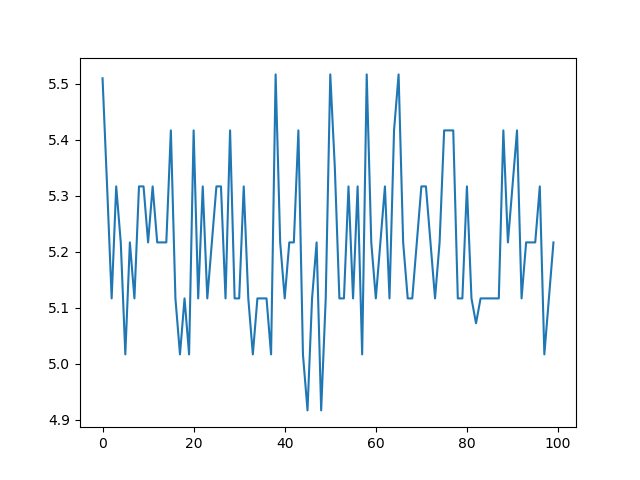
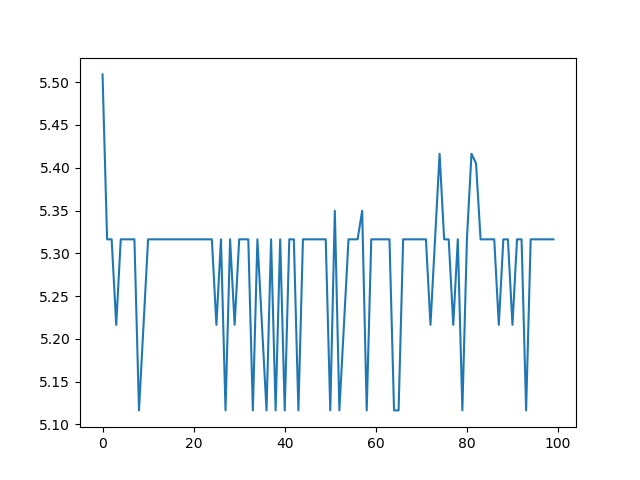
Modify architecture to study a single user characteristics

diff --git a/trainModel.py b/trainModel.py
@@ -5,6 +5,8 @@ import os
 import sys
 from collections import deque
 import model
+
+#Specify which user is writing
 user=sys.argv[1]
 
 #image parameters
@@ -36,6 +38,15 @@ def make_test_data():
 	labels=save["labels"]
 	return images,labels
 
+def load_user_batch(user):
+    user_pickle_file="Pickles/Pkl/usr_"+user+".pkl"
+    user_pickle_file=open(user_pickle_file,"rb")
+    save=pickle.load(user_pickle_file)
+    images=save["images"].reshape([-1,image_size*image_size])
+    labels=save["labels"]
+    if(len(images)==0):
+        raise Exception("User "+user+" is empty. Please Specify another user")
+    return images,labels
 
 Mod=model.Model()
 Mod.construct(image_size,num_characters)
@@ -45,9 +56,9 @@ y=[]
 
 num_iterations=100
 for iter in range(num_iterations):
-    train_images,train_labels=load_next_batch()
-    train_images=train_images
-    train_labels=train_labels
+    train_images,train_labels=load_user_batch(user)
+    train_images=train_images[:10]
+    train_labels=train_labels[:10]
     l,acc=Mod.train(train_images,train_labels)
     x.append(iter)
     y.append(l)

diff --git a/model.py b/model.py
@@ -17,14 +17,14 @@ class Model(object):
 
         input_layer=tf.reshape(self.image,[-1,100,100,1])
 
-        conv1=tf.layers.conv2d(input_layer,filters=32,kernel_size=[5,5],padding='same')
-        pool1=tf.layers.max_pooling2d(conv1,pool_size=[2,2],strides=[2,2])
+        conv1=tf.layers.conv2d(input_layer,filters=32,kernel_size=[50,50],padding='same')
+        pool1=tf.layers.max_pooling2d(conv1,pool_size=[20,20],strides=5)
 
-        conv2=tf.layers.conv2d(pool1,filters=64,kernel_size=[5,5],padding='same')
-        pool2=tf.layers.max_pooling2d(conv2,pool_size=[2,2],strides=2)
+        conv2=tf.layers.conv2d(pool1,filters=64,kernel_size=[20,20],padding='same')
+        pool2=tf.layers.max_pooling2d(conv2,pool_size=[5,5],strides=2)
 
-        pool2_flat=tf.reshape(pool2,[-1,25*25*64])
-        dropout=tf.nn.dropout(pool2_flat,0.5)
+        pool2_flat=tf.reshape(pool2,[-1,7*7*64])
+        dropout=tf.nn.dropout(pool2_flat,0.3)
         dense=tf.layers.dense(dropout,units=num_characters,activation=tf.nn.relu)
 
 
